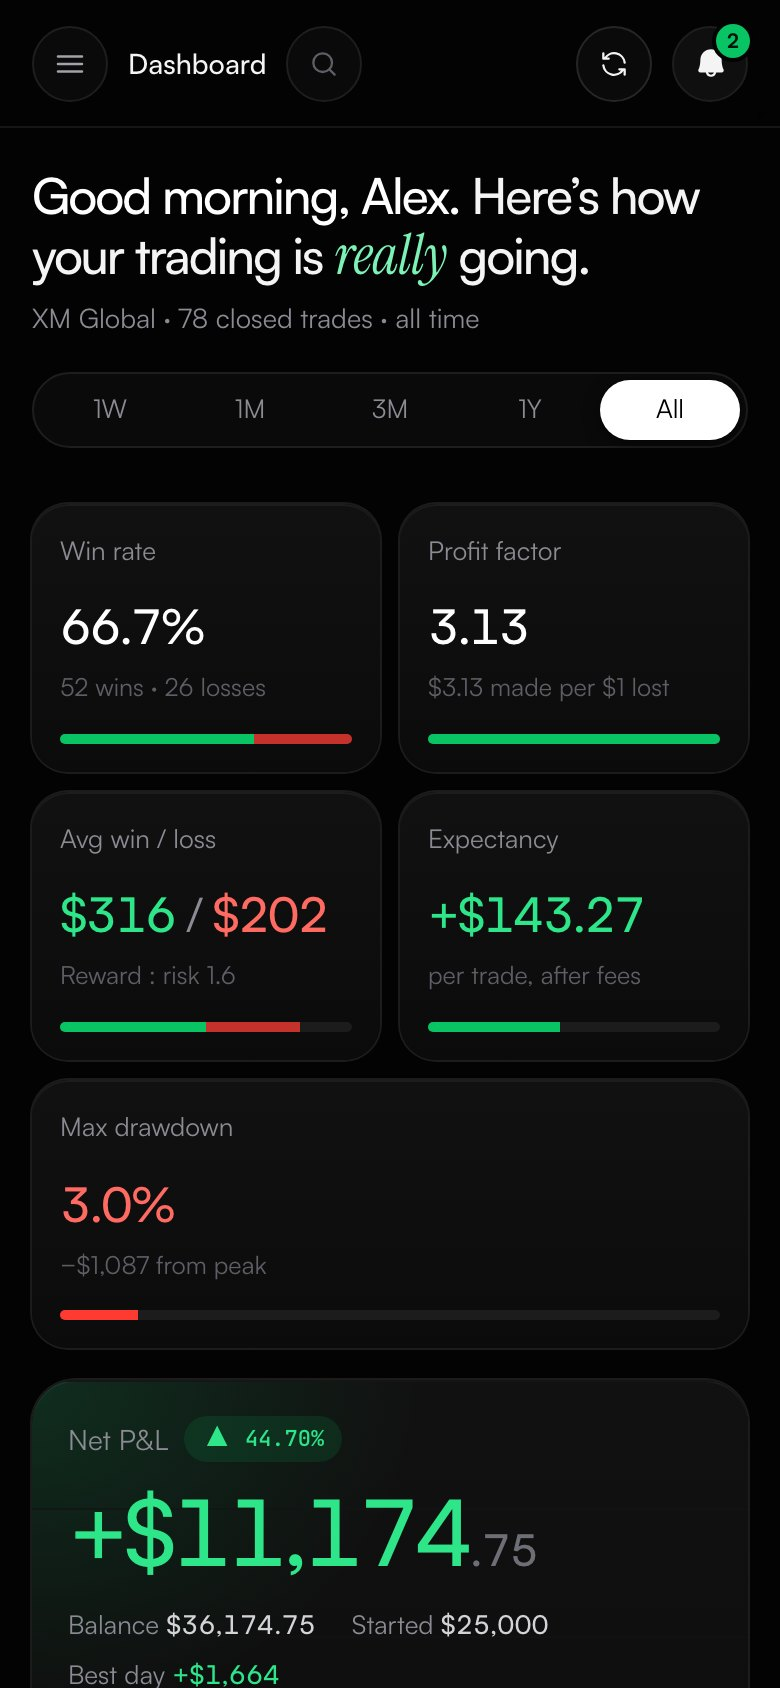
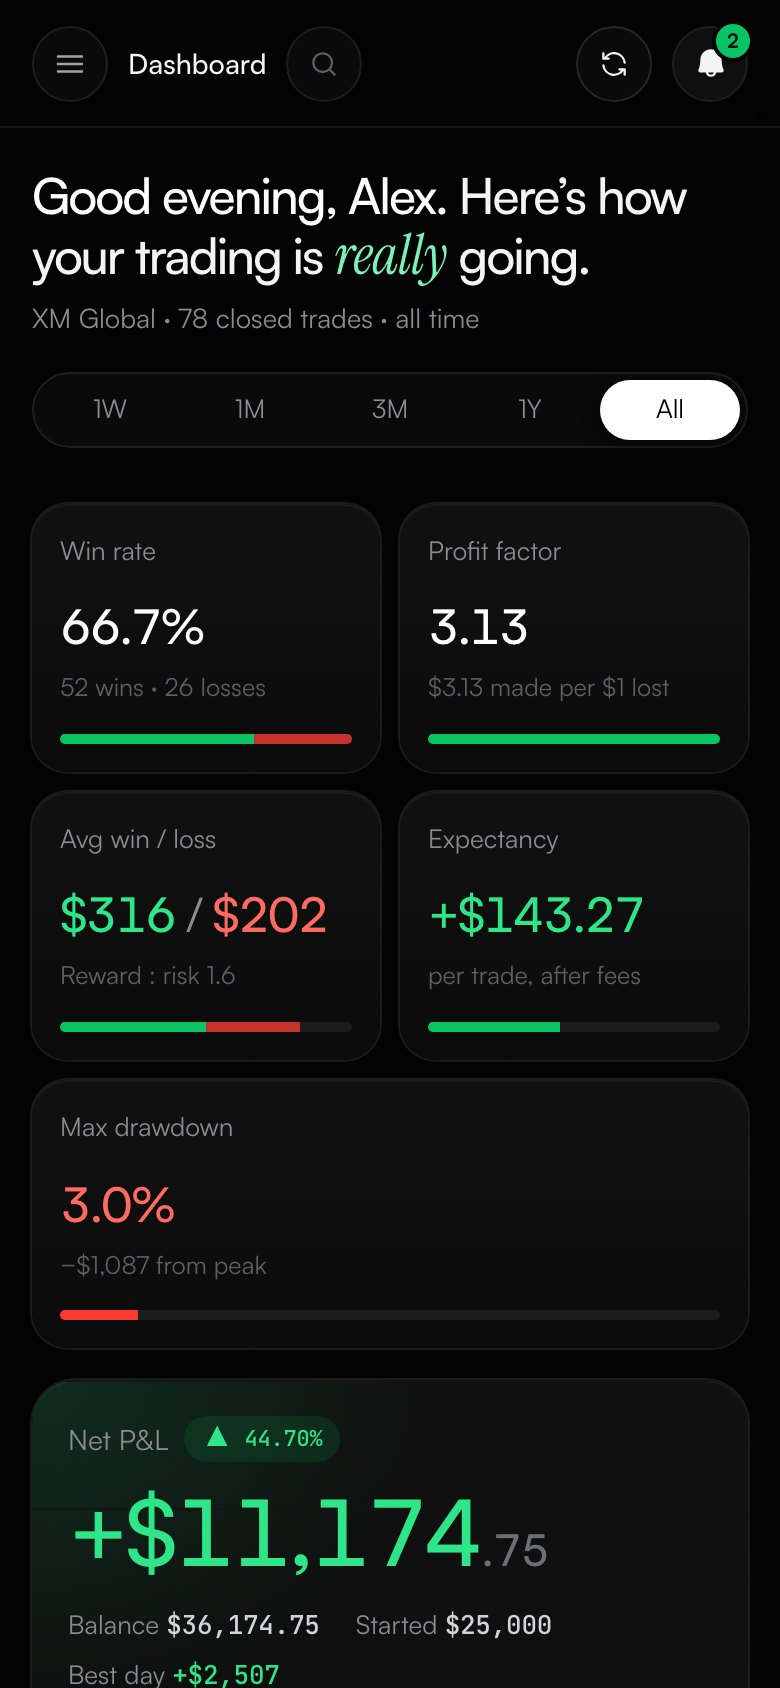
fix(web): pin the hero insight and weekly-review cards under the product shot
They hovered off the screenshot's edges with a bobbing animation and a glass
blur. Now they're a flat two-card strip directly beneath the shot, flush with
its edges (stacked on phones), no motion. The insight bars sit beside the
text on wide screens.

Product shot recaptured: its sidebar no longer shows the switched-off
Partner section.

diff --git a/apps/web/src/components/landing-v5/landing.css b/apps/web/src/components/landing-v5/landing.css
@@ -156,11 +156,11 @@
 .l5-frame img { border-radius: 14px; width: 100%; box-shadow: 0 0 0 1px rgba(0,0,0,.6); background: #0A0A0A; }
 .l5-stage-fade { position: absolute; inset: auto -10% -40px; height: 50%; z-index: 3; background: linear-gradient(transparent, var(--bg) 85%); pointer-events: none; }
 
-.l5-float { position: absolute; z-index: 4; border-radius: 18px; padding: 16px 18px; color: var(--txt);
-  background: linear-gradient(180deg, rgba(26,26,26,.86), rgba(12,12,12,.9)); backdrop-filter: blur(18px) saturate(140%); -webkit-backdrop-filter: blur(18px) saturate(140%);
-  box-shadow: inset 0 1px 0 rgba(255,255,255,.12), 0 0 0 1px rgba(255,255,255,.08), 0 30px 60px -20px #000; animation: l5-bob 7s ease-in-out infinite; }
-@keyframes l5-bob { 50% { transform: translateY(-10px); } }
-.l5-float small { display: block; font: 500 10.5px/1 var(--mono); letter-spacing: .14em; text-transform: uppercase; color: var(--mute); margin-bottom: 10px; }
+/* Same width as the product shot (.l5-stage-in renders it at 98%). */
+.l5-notes { position: relative; z-index: 4; width: calc(min(1240px, 100% - 64px) * .98); margin: 18px auto 0; display: grid; grid-template-columns: minmax(0, 1fr) minmax(0, 1fr); gap: 14px; }
+.l5-notes + .l5-trust { margin-top: 0; }
+.l5-note { border-radius: 18px; padding: 18px 20px; color: var(--txt); background: var(--s1); box-shadow: inset 0 0 0 1px var(--hair-2); }
+.l5-note small { display: block; font: 500 10.5px/1 var(--mono); letter-spacing: .14em; text-transform: uppercase; color: var(--mute); margin-bottom: 12px; }
 .l5-f-row { display: flex; gap: 10px; align-items: center; font-size: 14px; line-height: 1.4; }
 .l5-f-row b { font-weight: 500; }
 .l5-f-row i { flex: none; width: 32px; height: 32px; border-radius: 10px; display: grid; place-items: center; font-style: normal; }
@@ -168,10 +168,12 @@
 .l5-f-row i.tl { font-weight: 700; font-size: 12px; color: var(--on-g); background: linear-gradient(145deg, #3BF09A, #06A253); }
 .l5-f-row small { display: block; margin: 0; font-weight: 400; font-size: 12.5px; font-family: inherit; letter-spacing: 0; text-transform: none; color: var(--mute); }
 .l5-f-bars { display: flex; gap: 4px; align-items: flex-end; height: 34px; margin-top: 14px; }
+.l5-f-ins { display: grid; grid-template-columns: minmax(0, 1fr) minmax(0, 220px); column-gap: 28px; align-items: end; }
+.l5-f-ins small { grid-column: 1; }
+.l5-f-ins .l5-f-row { grid-column: 1; }
+.l5-f-ins .l5-f-bars { grid-column: 2; grid-row: 1 / span 2; margin-top: 0; }
 .l5-f-bars i { flex: 1; border-radius: 3px; }
 .l5-f-bars i.g { background: var(--g); } .l5-f-bars i.r { background: var(--r); }
-.l5-f-ins { right: -40px; top: -30px; width: 270px; }
-.l5-f-mail { left: -46px; top: 46%; width: 290px; animation-delay: -3.5s; }
 .l5-f-mail p { font-size: 13.5px; color: var(--txt-2); margin-top: 12px; padding-top: 12px; border-top: 1px solid var(--hair); }
 .l5-f-mail p b { color: #fff; font-weight: 500; }
 
@@ -446,7 +448,6 @@
 @media (max-width: 1199px) {
   .l5-links a { padding: 8px 10px; font-size: 14px; }
   .l5-nav .l5-wrap { gap: 24px; }
-  .l5-f-ins { right: -14px; } .l5-f-mail { left: -14px; }
   .l5-two, .l5-review .l5-two { gap: 56px; }
   .l5-quote { font-size: 32px; }
 }
@@ -475,8 +476,6 @@
   .l5-sec, .l5-steps, .l5-faq { padding: 110px 0; }
   .l5-partner { padding-bottom: 110px; }
   .l5-cta { padding: 130px 0 140px; }
-  .l5-f-ins { top: -40px; right: -8px; width: 240px; }
-  .l5-f-mail { left: -8px; width: 260px; }
 }
 @media (max-width: 767px) {
   .lp5 { font-size: 15px; }
@@ -503,7 +502,9 @@
   .l5-stage-in { transform: none; }
   .l5-frame { padding: 6px; border-radius: 26px; }
   .l5-frame img { border-radius: 20px; }
-  .l5-float { display: none; }
+  .l5-notes { width: min(420px, 100% - 32px); grid-template-columns: minmax(0, 1fr); gap: 10px; margin-top: 14px; }
+  .l5-f-ins { display: block; }
+  .l5-f-ins .l5-f-bars { margin-top: 14px; }
   .l5-stage-fade { height: 40%; }
   .l5-trust { padding: 28px 0 56px; }
   .l5-mq-set { gap: 44px; padding-right: 44px; }
@@ -571,7 +572,7 @@
 /* ── reduced motion: everything visible, nothing moving ─────────────────── */
 @media (prefers-reduced-motion: reduce) {
   .l5-rv { opacity: 1; transform: none; filter: none; transition: none; }
-  .l5-grain, .l5-tick ul, .l5-mq ul, .l5-stream-in, .l5-float, .l5-shine, .l5-btn--acc::before, .l5-btn--beam::after, .l5-caret, .l5-lock { animation: none !important; }
+  .l5-grain, .l5-tick ul, .l5-mq ul, .l5-stream-in, .l5-shine, .l5-btn--acc::before, .l5-btn--beam::after, .l5-caret, .l5-lock { animation: none !important; }
   .l5-candle, .l5-band, .l5-tlines, .l5-pins, .l5-bar i, .l5-dots i, .l5-tilt i, .l5-heat i { opacity: 1 !important; transform: none !important; transition: none !important; }
   .l5-stage-in { transition: none; }
   .l5-btn, .l5-btn:hover { transition: none; transform: none; }

diff --git a/apps/web/src/components/landing-v5/hero.tsx b/apps/web/src/components/landing-v5/hero.tsx
@@ -59,17 +59,21 @@ export default function Hero() {
             </picture>
           </div>
         </div>
-        <div className="l5-float l5-f-ins" aria-hidden>
+        <div className="l5-stage-fade" aria-hidden />
+      </div>
+
+      {/* Two things the product tells you, pinned under the shot. */}
+      <div className="l5-notes" aria-hidden>
+        <div className="l5-note l5-f-ins">
           <small>Insight</small>
           <div className="l5-f-row"><i className="r"><svg viewBox="0 0 16 16" width="14" height="14" fill="none"><path d="M8 2 1.5 13.5h13L8 2Z" stroke="currentColor" strokeWidth="1.5" strokeLinejoin="round" /><path d="M8 6.5v3m0 2v.2" stroke="currentColor" strokeWidth="1.5" strokeLinecap="round" /></svg></i>
             <span>Losers held <b>3.4× longer</b> than winners.</span></div>
           <div className="l5-f-bars"><i style={{ height: '40%' }} className="g" /><i style={{ height: '62%' }} className="g" /><i style={{ height: '34%' }} className="r" /><i style={{ height: '55%' }} className="g" /><i style={{ height: '70%' }} className="r" /><i style={{ height: '84%' }} className="r" /><i style={{ height: '100%' }} className="r" /><i style={{ height: '78%' }} className="r" /></div>
         </div>
-        <div className="l5-float l5-f-mail" aria-hidden>
+        <div className="l5-note l5-f-mail">
           <div className="l5-f-row"><i className="tl">TL</i><span><b>Your week in review</b><small>Mon 07:00 · 23 trades</small></span></div>
           <p>One thing to fix: <b>stop new entries after 15:00 London.</b></p>
         </div>
-        <div className="l5-stage-fade" aria-hidden />
       </div>
 
       <div className="l5-trust">
